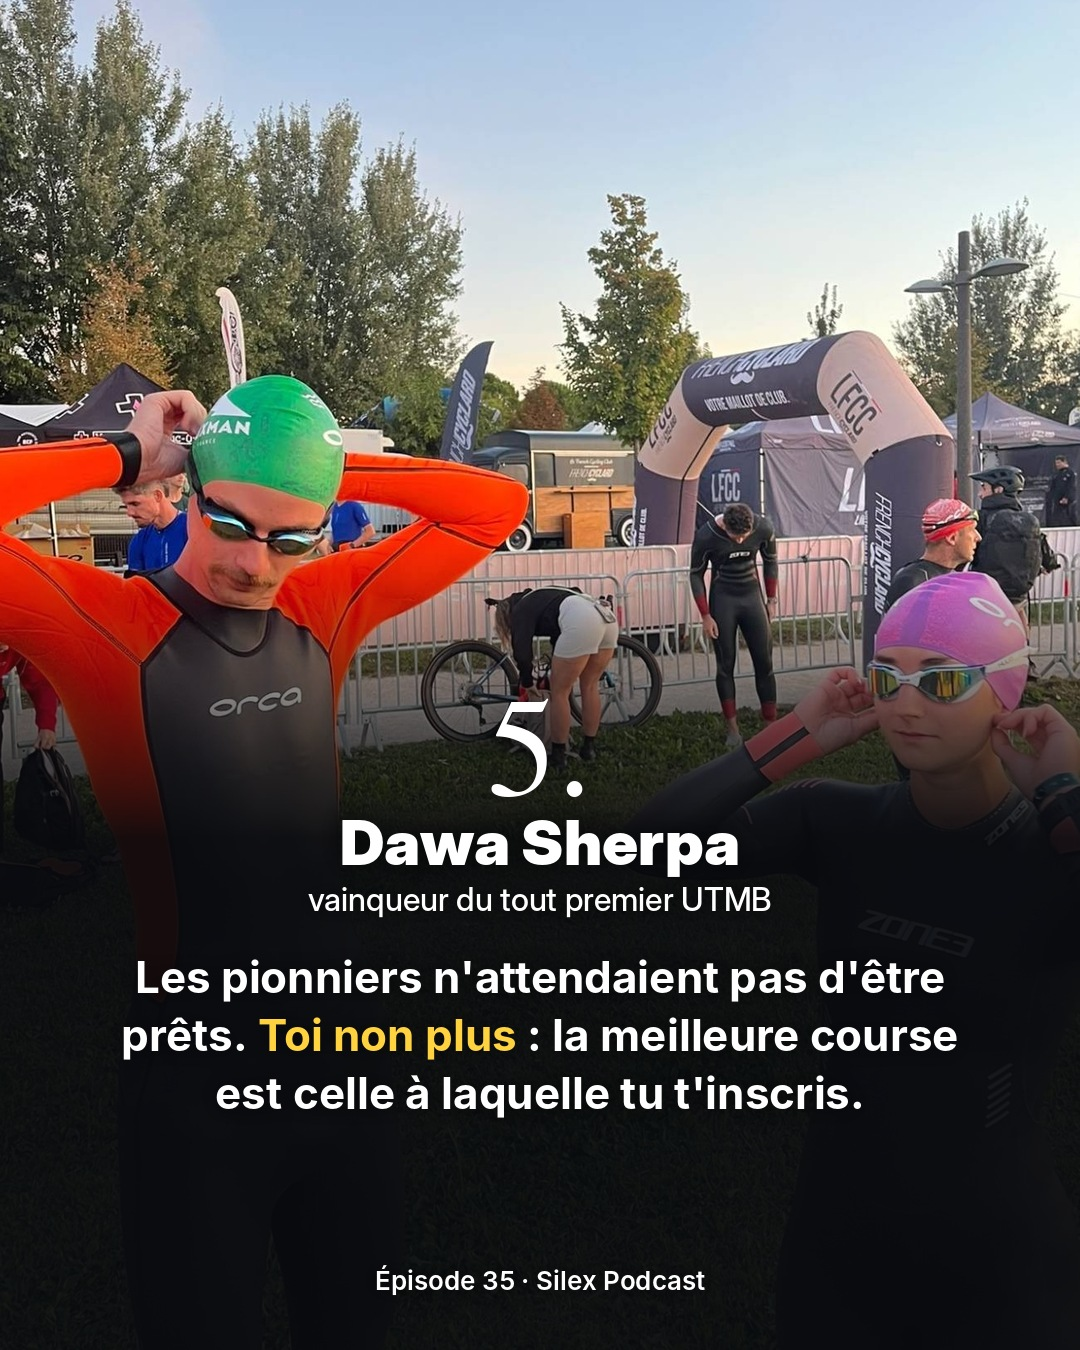
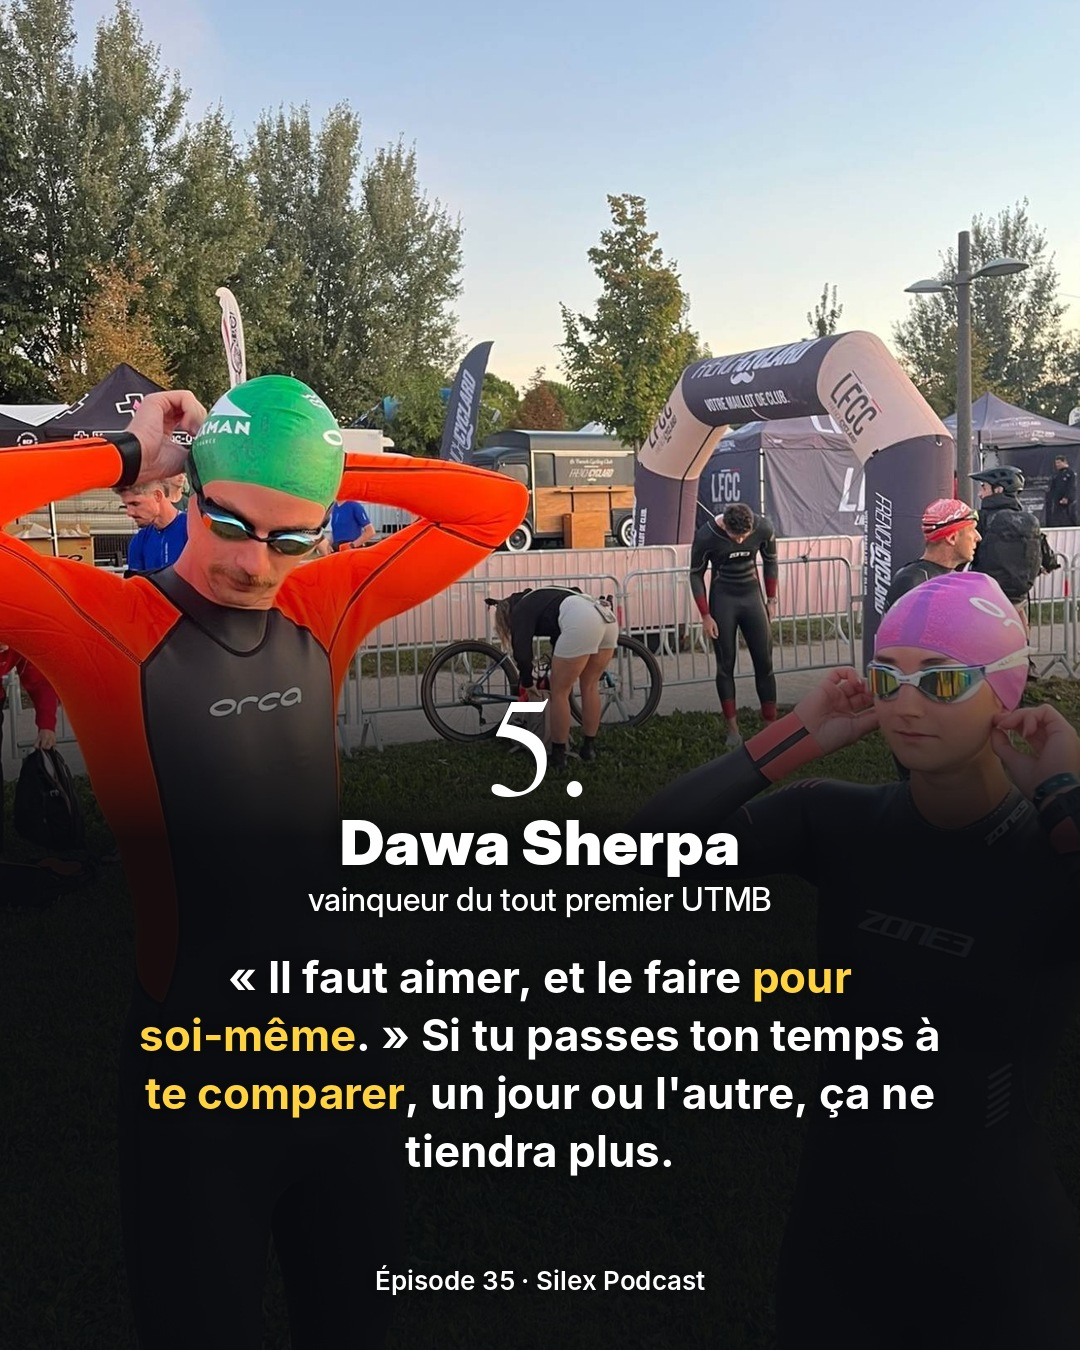
Carrousel Silex : leçon Dawa Sherpa basée sur l'interview, idées de contenus
Les 5 leçons du carrousel sont maintenant tirées des transcriptions.

Claude-Session: https://claude.ai/code/session_01Bwd8fxM92NWrr3aL1Qd296

Changed region(s): [[0.0917, 0.7156, 0.8861, 0.8711]]

diff --git a/carrousel-silex/make.py b/carrousel-silex/make.py
@@ -167,7 +167,7 @@ SLIDES = [
     {'photo': 'avant-depart', 'fx': 0.53, 'fy': 0.55, 'zoom': 1.15, 'n': 5, 'bottom': True, 'y': 0.50,
      'shade_start': 0.40, 'shade_full': 0.62,
      'name': 'Dawa Sherpa', 'role': 'vainqueur du tout premier UTMB',
-     'text': "Les pionniers n'attendaient pas d'être prêts. **Toi non plus** : la meilleure course est celle à laquelle tu t'inscris.",
+     'text': "« Il faut aimer, et le faire **pour soi-même**. » Si tu passes ton temps à **te comparer**, un jour ou l'autre, ça ne tiendra plus.",
      'credit': 'Épisode 35 · Silex Podcast'},
 ]
 

diff --git a/carrousel-silex/conseils-dawa.md b/carrousel-silex/conseils-dawa.md
@@ -1,0 +1,22 @@
+# Épisode 35 · Dawa Sherpa : idées de contenus tirées de la transcription
+
+| # | Passage | Ce qu'il dit | Format | Accroche |
+|---|---|---|---|---|
+| 1 | 9:02–9:31 | Quand il gagne en 2003, il est maçon. « Trois ou quatre sorties dans la semaine, c'est déjà beaucoup. » Sa force : la résistance que lui donnait son métier. | Reel | « Il a gagné le premier UTMB en étant maçon » |
+| 2 | 10:40–11:57 | La première édition de l'UTMB : un t-shirt en coton, « personne ne sait où on va ». | Reel (nostalgie) | « Le vainqueur du premier UTMB courait en t-shirt coton » |
+| 3 | 15:45–19:13 | Le Comité olympique népalais lui demande de faire du ski de fond. Quelques séances de 2 h avec un moniteur, puis une course de 30 km au Japon. Trois JO ensuite (Turin, Vancouver, Sotchi). | Reel storytelling | « Il a appris le ski de fond en 6 séances… et a fait 3 JO » |
+| 4 | 33:46–34:40 | « Il faut aimer, et le faire pour soi-même. » Se comparer finit toujours par peser. | Reel (à partager) | « Le conseil d'une légende du trail que personne n'applique » |
+| 5 | 34:52–35:19 | « Si tu as une basket, tu vas courir toute l'année. » Pas besoin de toutes les couleurs : courir, c'est la liberté. | Reel | « Tu n'as pas besoin de plus de matos » |
+| 6 | 13:42–15:29 | La nuit en ultra : « Même si on n'avance pas beaucoup, ce n'est pas grave. » Ralentir, récupérer, boire. | Reel | « Ce qu'une légende de l'ultra se dit à 3 h du matin » |
+| 7 | 4:18–5:20 | Sa première course au Népal (1994) : mal équipé, mal des montagnes, mis en caisson, porté par l'équipe. | Reel storytelling | « Sa première course a fini en caisson hyperbare » |
+| 8 | 6:12–7:18 | Le ravito de l'époque : maïs séché, pommes de terre avec piment et sel. Pas de gels. | Reel court | « Avant les gels, il courait au maïs séché » |
+| 9 | 27:45–28:30 | En Europe, « on a tout mais on n'est jamais trop contents ». Au Népal, on peut être heureux avec peu. | Citation / carrousel | « Ce que le Népal apprend aux traileurs européens » |
+| 10 | 32:45–33:40 | Le corps a une limite : ce n'est pas un aliment ou un entraînement miracle qui change tout. | Reel | « Il n'y a pas d'aliment miracle (dit le vainqueur du premier UTMB) » |
+| 11 | 23:00–26:12 | Son association : parrainage d'enfants, centre pour personnes âgées (20 résidents). | Story / post dédié | Avec un lien vers son site pour soutenir l'association |
+
+## Conseils
+
+- Le passage 1 (maçon, 3-4 sorties par semaine) colle parfaitement à ton positionnement « endurance réaliste ».
+- Le passage 3 (ski de fond et JO) est la meilleure histoire de l'épisode pour un reel viral.
+- Dawa parle parfois de façon difficile à suivre à l'oral : sous-titre et resserre beaucoup les extraits.
+- Mettre en avant son association (et le lien pour donner) est une belle manière de le remercier : il risque de repartager.

diff --git a/carrousel-silex/legende.md b/carrousel-silex/legende.md
@@ -12,7 +12,7 @@ Et ce qui revient le plus souvent, ce n'est pas un plan d'entraînement secret :
 2. 5 minutes de course, ça compte (@[Blaise Dubois])
 3. La récupération fait partie de l'entraînement (@[Guillaume Millet])
 4. Construis ta base en aisance, pas à fond (@[Chloé Herbiet])
-5. N'attends pas d'être prêt (@[Dawa Sherpa])
+5. Cours pour toi, pas pour te comparer (@[Dawa Sherpa])
 
 💬 Écris SILEX en commentaire et je t'envoie l'épisode avec Kristian Blummenfelt.
 📌 Enregistre ce post pour ta prochaine prépa.
@@ -36,5 +36,5 @@ Ces textes ont été écrits sans accès aux transcriptions. Vérifie que chacun
 - ✅ Slide 3 · Blaise Dubois : validé avec la transcription (39:23–40:32, « 5 minutes, ça compte », 450 appuis par jambe à ~180 pas/min — Blaise dit 900, chiffre corrigé, stress quotidien).
 - ✅ Slide 4 · Guillaume Millet : validé avec la transcription (23:33–25:11, « la récupération fait partie de l'entraînement », dormir et bien manger plutôt que le dernier complément).
 - ✅ Slide 5 · Chloé Herbiet : validé avec la transcription (33:28–34:00, « le plus important c'est la base », courir en aisance, « le lendemain on a envie d'y retourner »). L'ancienne leçon « un vrai boulot n'empêche pas d'aller loin » était contredite par l'interview : retirée.
-- [À VALIDER] Slide 6 · Dawa Sherpa : « Les pionniers n'attendaient pas d'être prêts. »
+- ✅ Slide 6 · Dawa Sherpa : validé avec la transcription (33:46–34:25, « faut aimer… le faire pour soi-même », ne pas se comparer ; vainqueur de la 1re édition de l'UTMB en 2003, 9:37).
 - Les numéros d'épisode (10, 12, 14, 8, 35) viennent des miniatures YouTube.
